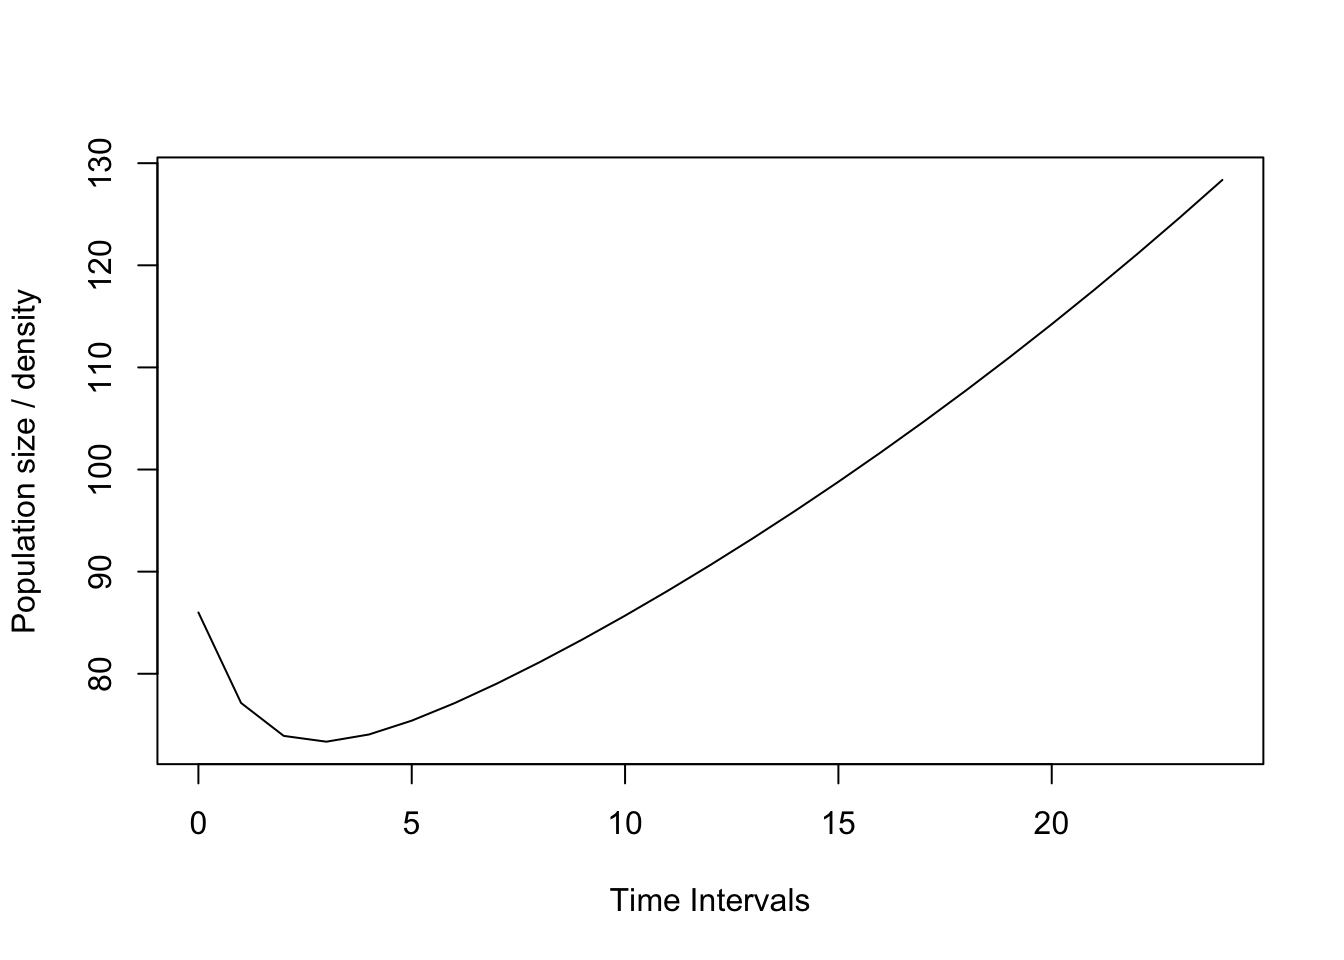
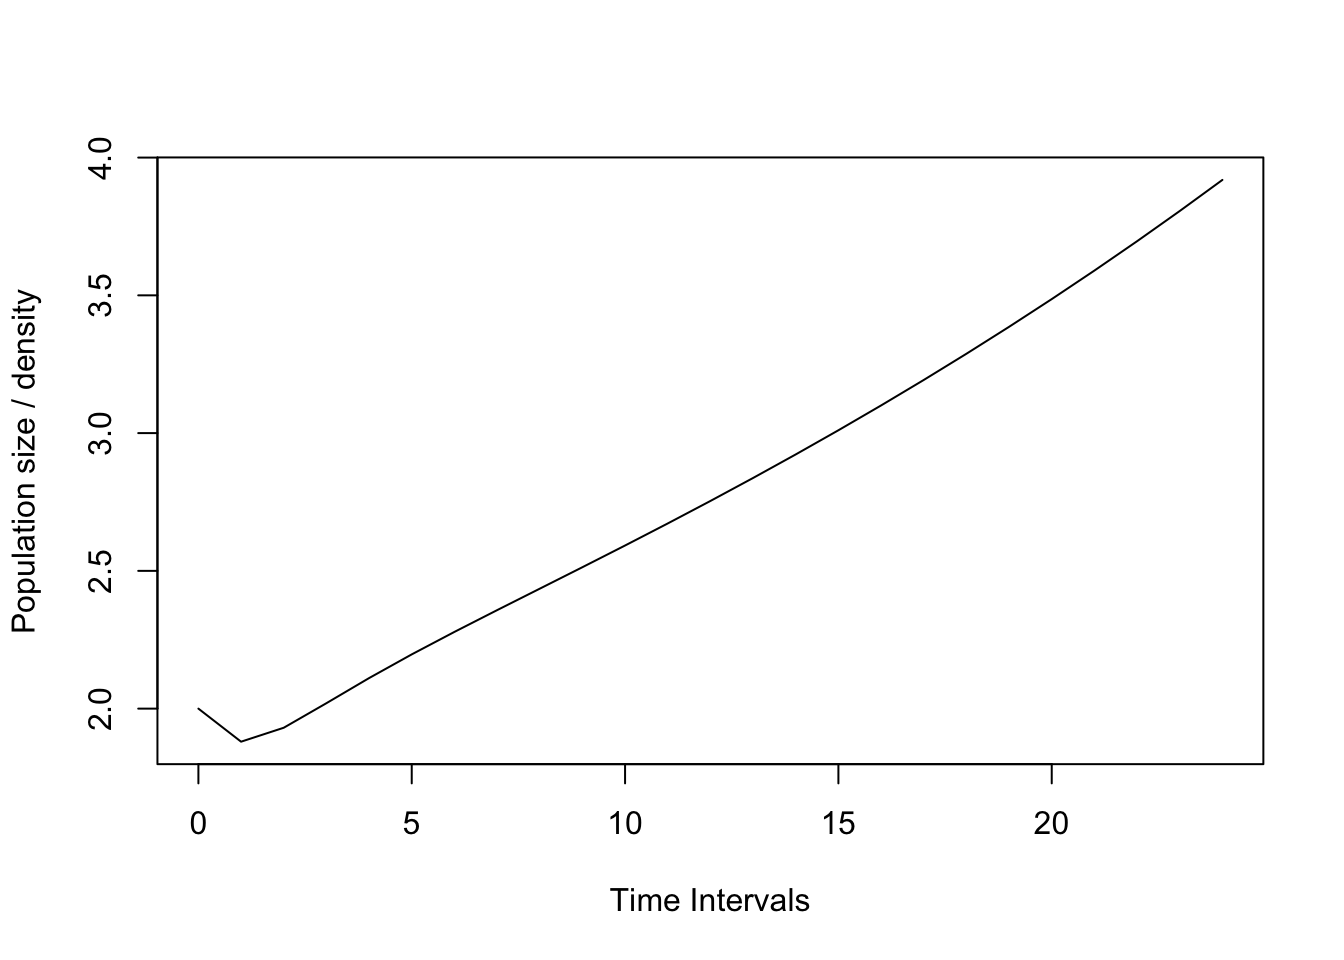
Rub

diff --git a/Lepanthes_rubripetala_4.html b/Lepanthes_rubripetala_4.html
@@ -559,7 +559,14 @@ div.tocify {
 0,      0.14,    0.43, 0.84
 ), byrow=TRUE, ncol=4)
 
-Lrub1=R3</code></pre>
+Lrub1=R3
+
+Lrub1</code></pre>
+<pre><code>##      [,1] [,2] [,3] [,4]
+## [1,] 0.43 0.00 0.00 0.14
+## [2,] 0.38 0.84 0.00 0.00
+## [3,] 0.00 0.00 0.51 0.15
+## [4,] 0.00 0.14 0.43 0.84</code></pre>
 </div>
 <div id="two-problems-need-to-be-evaluated-before-analysis" class="section level2">
 <h2>Two problems need to be evaluated before analysis</h2>
@@ -590,7 +597,7 @@ Lrub1=R3</code></pre>
 <p>#FIGURE 1: POPULATION PROJECTION #</p>
 <p>#This figure is designed to be 3.5" by 3.5" #(Check size of plot window using ‘par(din)’). # # #Set margins: par(mar=c(5,4,1,1))</p>
 <p>#Create a population vector. This one is biased towards adults.</p>
-<pre class="r"><code>n0 &lt;- c(48, 16, 12, 10)</code></pre>
+<pre class="r"><code>n0 &lt;- c(0, 0, 2, 0)</code></pre>
 </div>
 </div>
 <div id="now-project-the-population-for-x-years-in-the-future." class="section level2">
